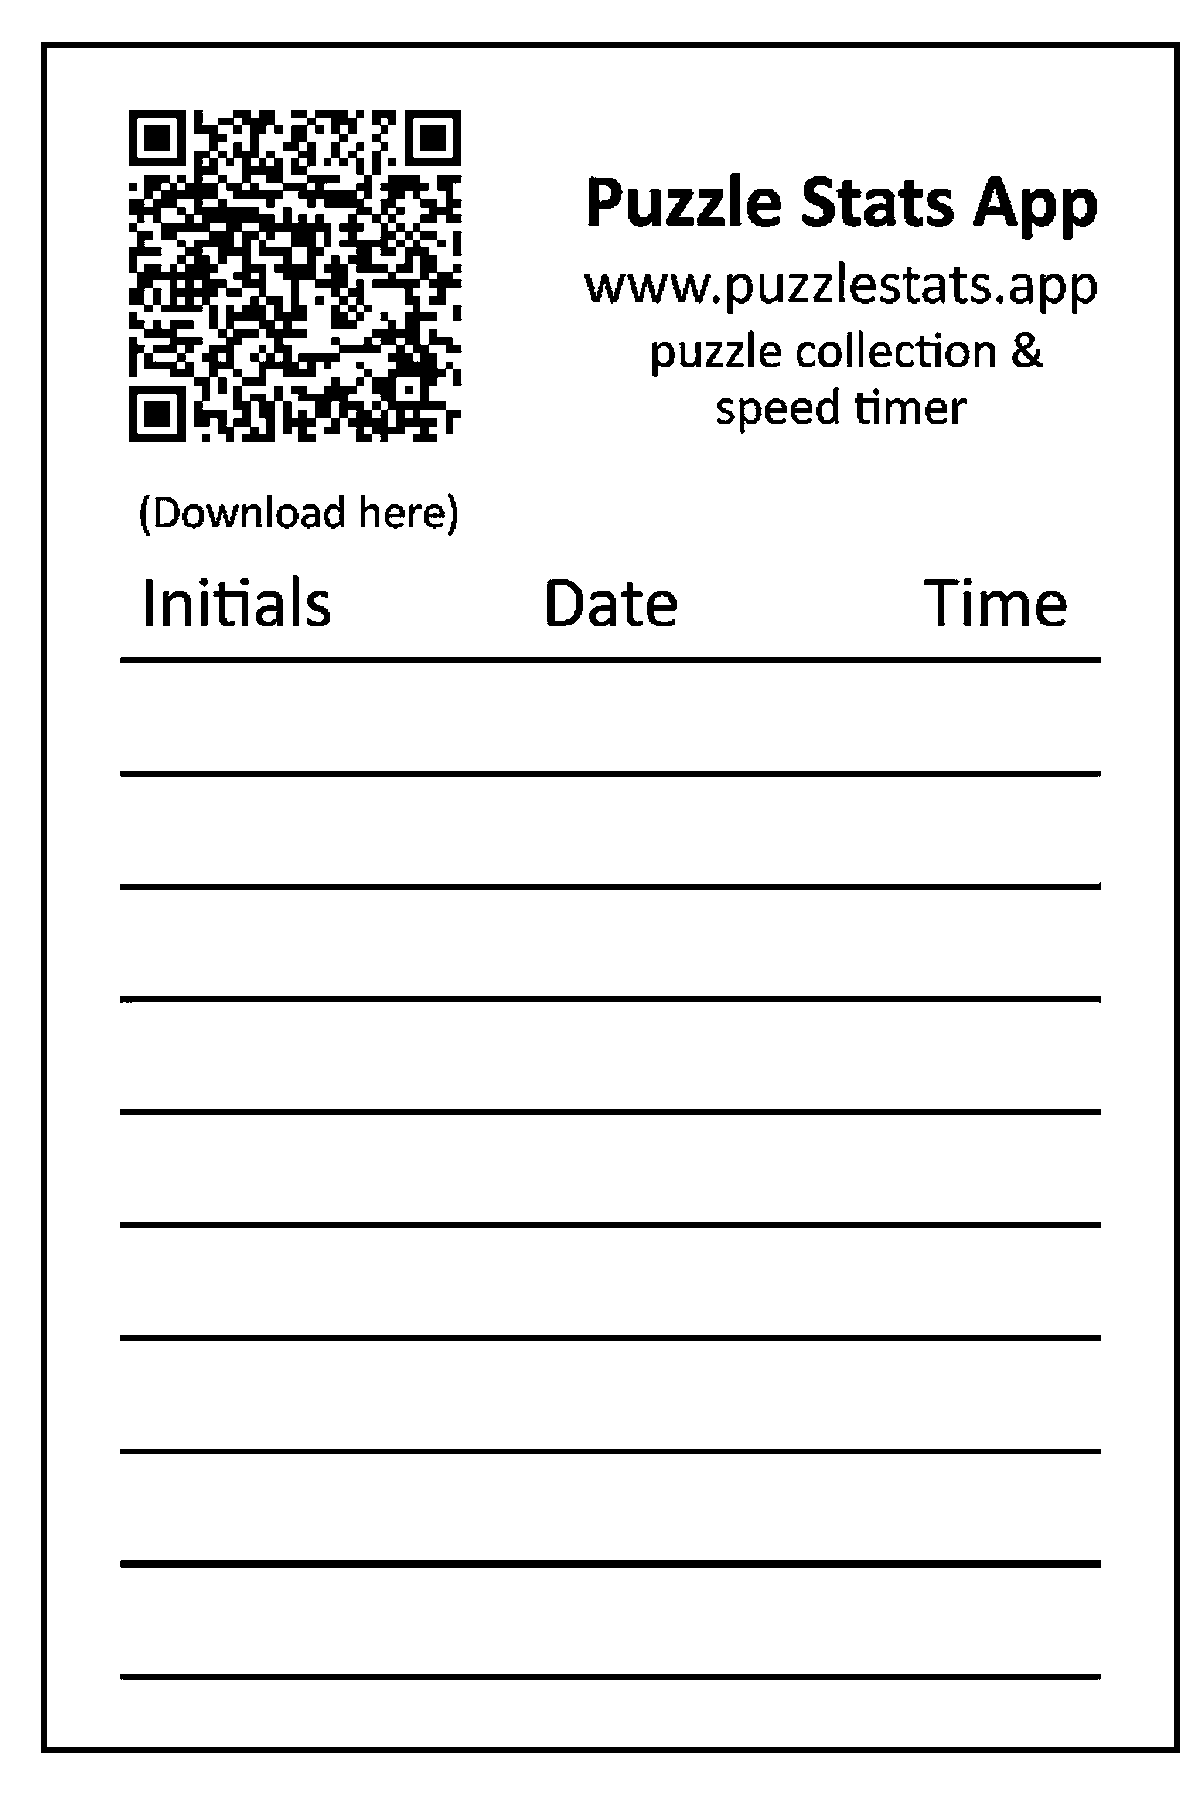
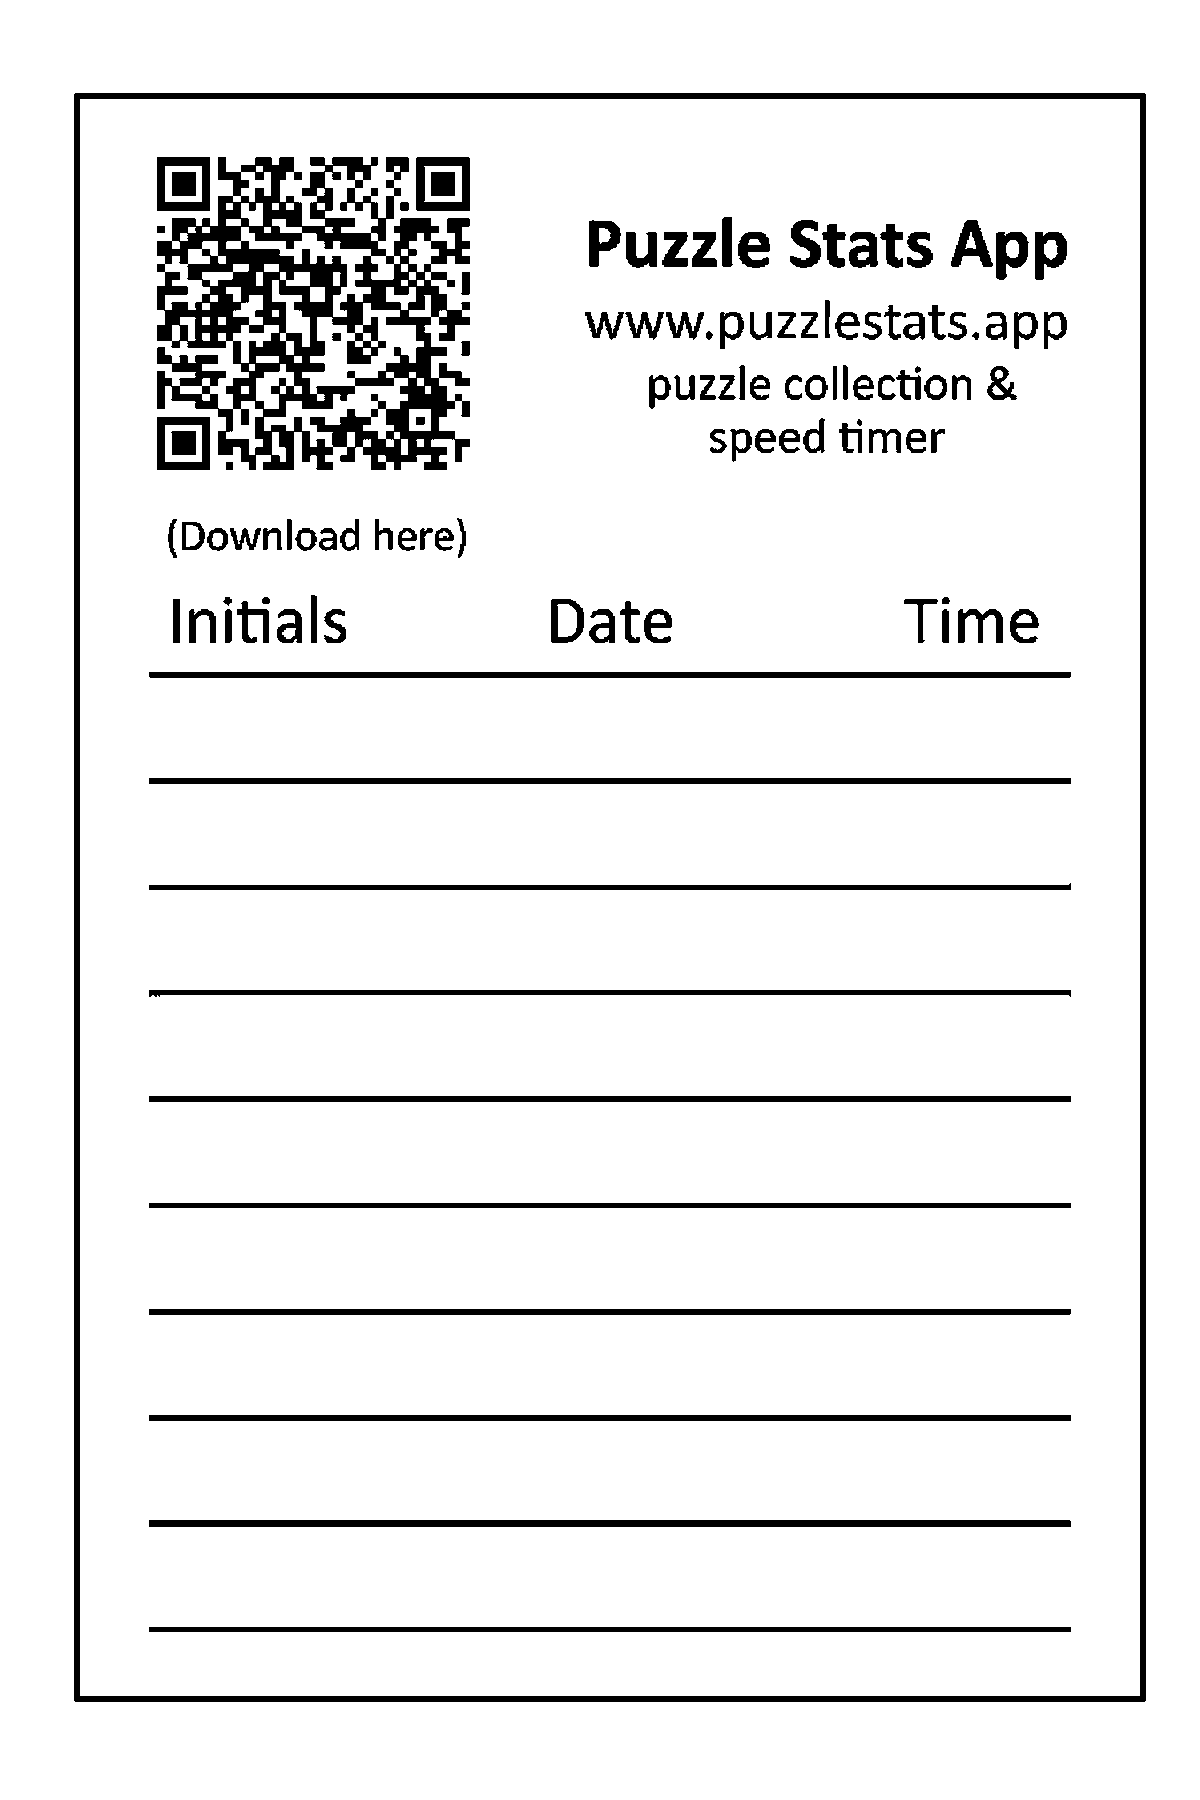
add print

diff --git a/assets/print/print-4x6.html b/assets/print/print-4x6.html
@@ -1,0 +1,145 @@
+<!DOCTYPE html>
+<html lang="en">
+<head>
+  <meta charset="utf-8" />
+  <meta name="viewport" content="width=device-width, initial-scale=1" />
+  <title>Puzzle Stats — Print 4×6 Rollo Label</title>
+  <style>
+    @page {
+      size: 4in 6in;
+      margin: 0;
+    }
+
+    html, body {
+      margin: 0;
+      padding: 0;
+      width: 4in;
+      height: 6in;
+    }
+
+    img.label {
+      width: 4in;
+      height: 6in;
+      display: block;
+      object-fit: fill;
+    }
+
+    /* Screen: thin outline so the label bounds are visible */
+    @media screen {
+      body {
+        background: #e8e8e8;
+        min-height: 100vh;
+        width: auto;
+        height: auto;
+        display: flex;
+        flex-direction: column;
+        align-items: center;
+        padding: 1.5rem 1rem 2rem;
+        box-sizing: border-box;
+        font-family: system-ui, -apple-system, Segoe UI, sans-serif;
+      }
+
+      .instructions {
+        max-width: 28rem;
+        margin: 0 0 1.25rem;
+        padding: 0.85rem 1rem;
+        background: #fff;
+        border: 1px solid #ccc;
+        border-radius: 6px;
+        font-size: 0.9rem;
+        line-height: 1.45;
+        color: #222;
+      }
+
+      .instructions h1 {
+        margin: 0 0 0.5rem;
+        font-size: 1.05rem;
+        font-weight: 650;
+      }
+
+      .instructions ol {
+        margin: 0.4rem 0 0.75rem;
+        padding-left: 1.25rem;
+      }
+
+      .instructions li {
+        margin: 0.25rem 0;
+      }
+
+      .instructions .hint {
+        margin: 0;
+        font-size: 0.8rem;
+        color: #555;
+      }
+
+      .print-btn {
+        display: inline-block;
+        margin-top: 0.65rem;
+        padding: 0.45rem 1.1rem;
+        font-size: 0.95rem;
+        font-weight: 600;
+        color: #fff;
+        background: #1a1a1a;
+        border: none;
+        border-radius: 5px;
+        cursor: pointer;
+      }
+
+      .print-btn:hover {
+        background: #333;
+      }
+
+      .page {
+        width: 4in;
+        height: 6in;
+        box-shadow: 0 0 0 1px #999;
+        background: #fff;
+        flex-shrink: 0;
+      }
+    }
+
+    @media print {
+      .instructions {
+        display: none !important;
+      }
+
+      .page {
+        box-shadow: none;
+        outline: none;
+      }
+
+      html, body {
+        width: 4in;
+        height: 6in;
+        background: none;
+      }
+    }
+  </style>
+</head>
+<body>
+  <div class="instructions">
+    <h1>Print Puzzle Stats 4×6 label</h1>
+    <ol>
+      <li>Open this file in Chrome or Edge.</li>
+      <li>Press <kbd>Ctrl</kbd>+<kbd>P</kbd> (or click Print below).</li>
+      <li>Printer: choose your <strong>Rollo</strong>.</li>
+      <li>Paper size: <strong>4×6</strong> if listed (or custom 4 in × 6 in).</li>
+      <li>Margins: <strong>None</strong>.</li>
+      <li>Scale: <strong>100%</strong> (no “fit to page”).</li>
+      <li>Turn off headers and footers.</li>
+    </ol>
+    <p class="hint">Uses <code>puzzlestats-rollo-4x6-300dpi.png</code> next to this file.</p>
+    <button type="button" class="print-btn" onclick="window.print()">Print</button>
+  </div>
+
+  <div class="page">
+    <img
+      class="label"
+      src="puzzlestats-rollo-4x6-300dpi.png"
+      width="1200"
+      height="1800"
+      alt="Puzzle Stats Rollo 4×6 label"
+    />
+  </div>
+</body>
+</html>
